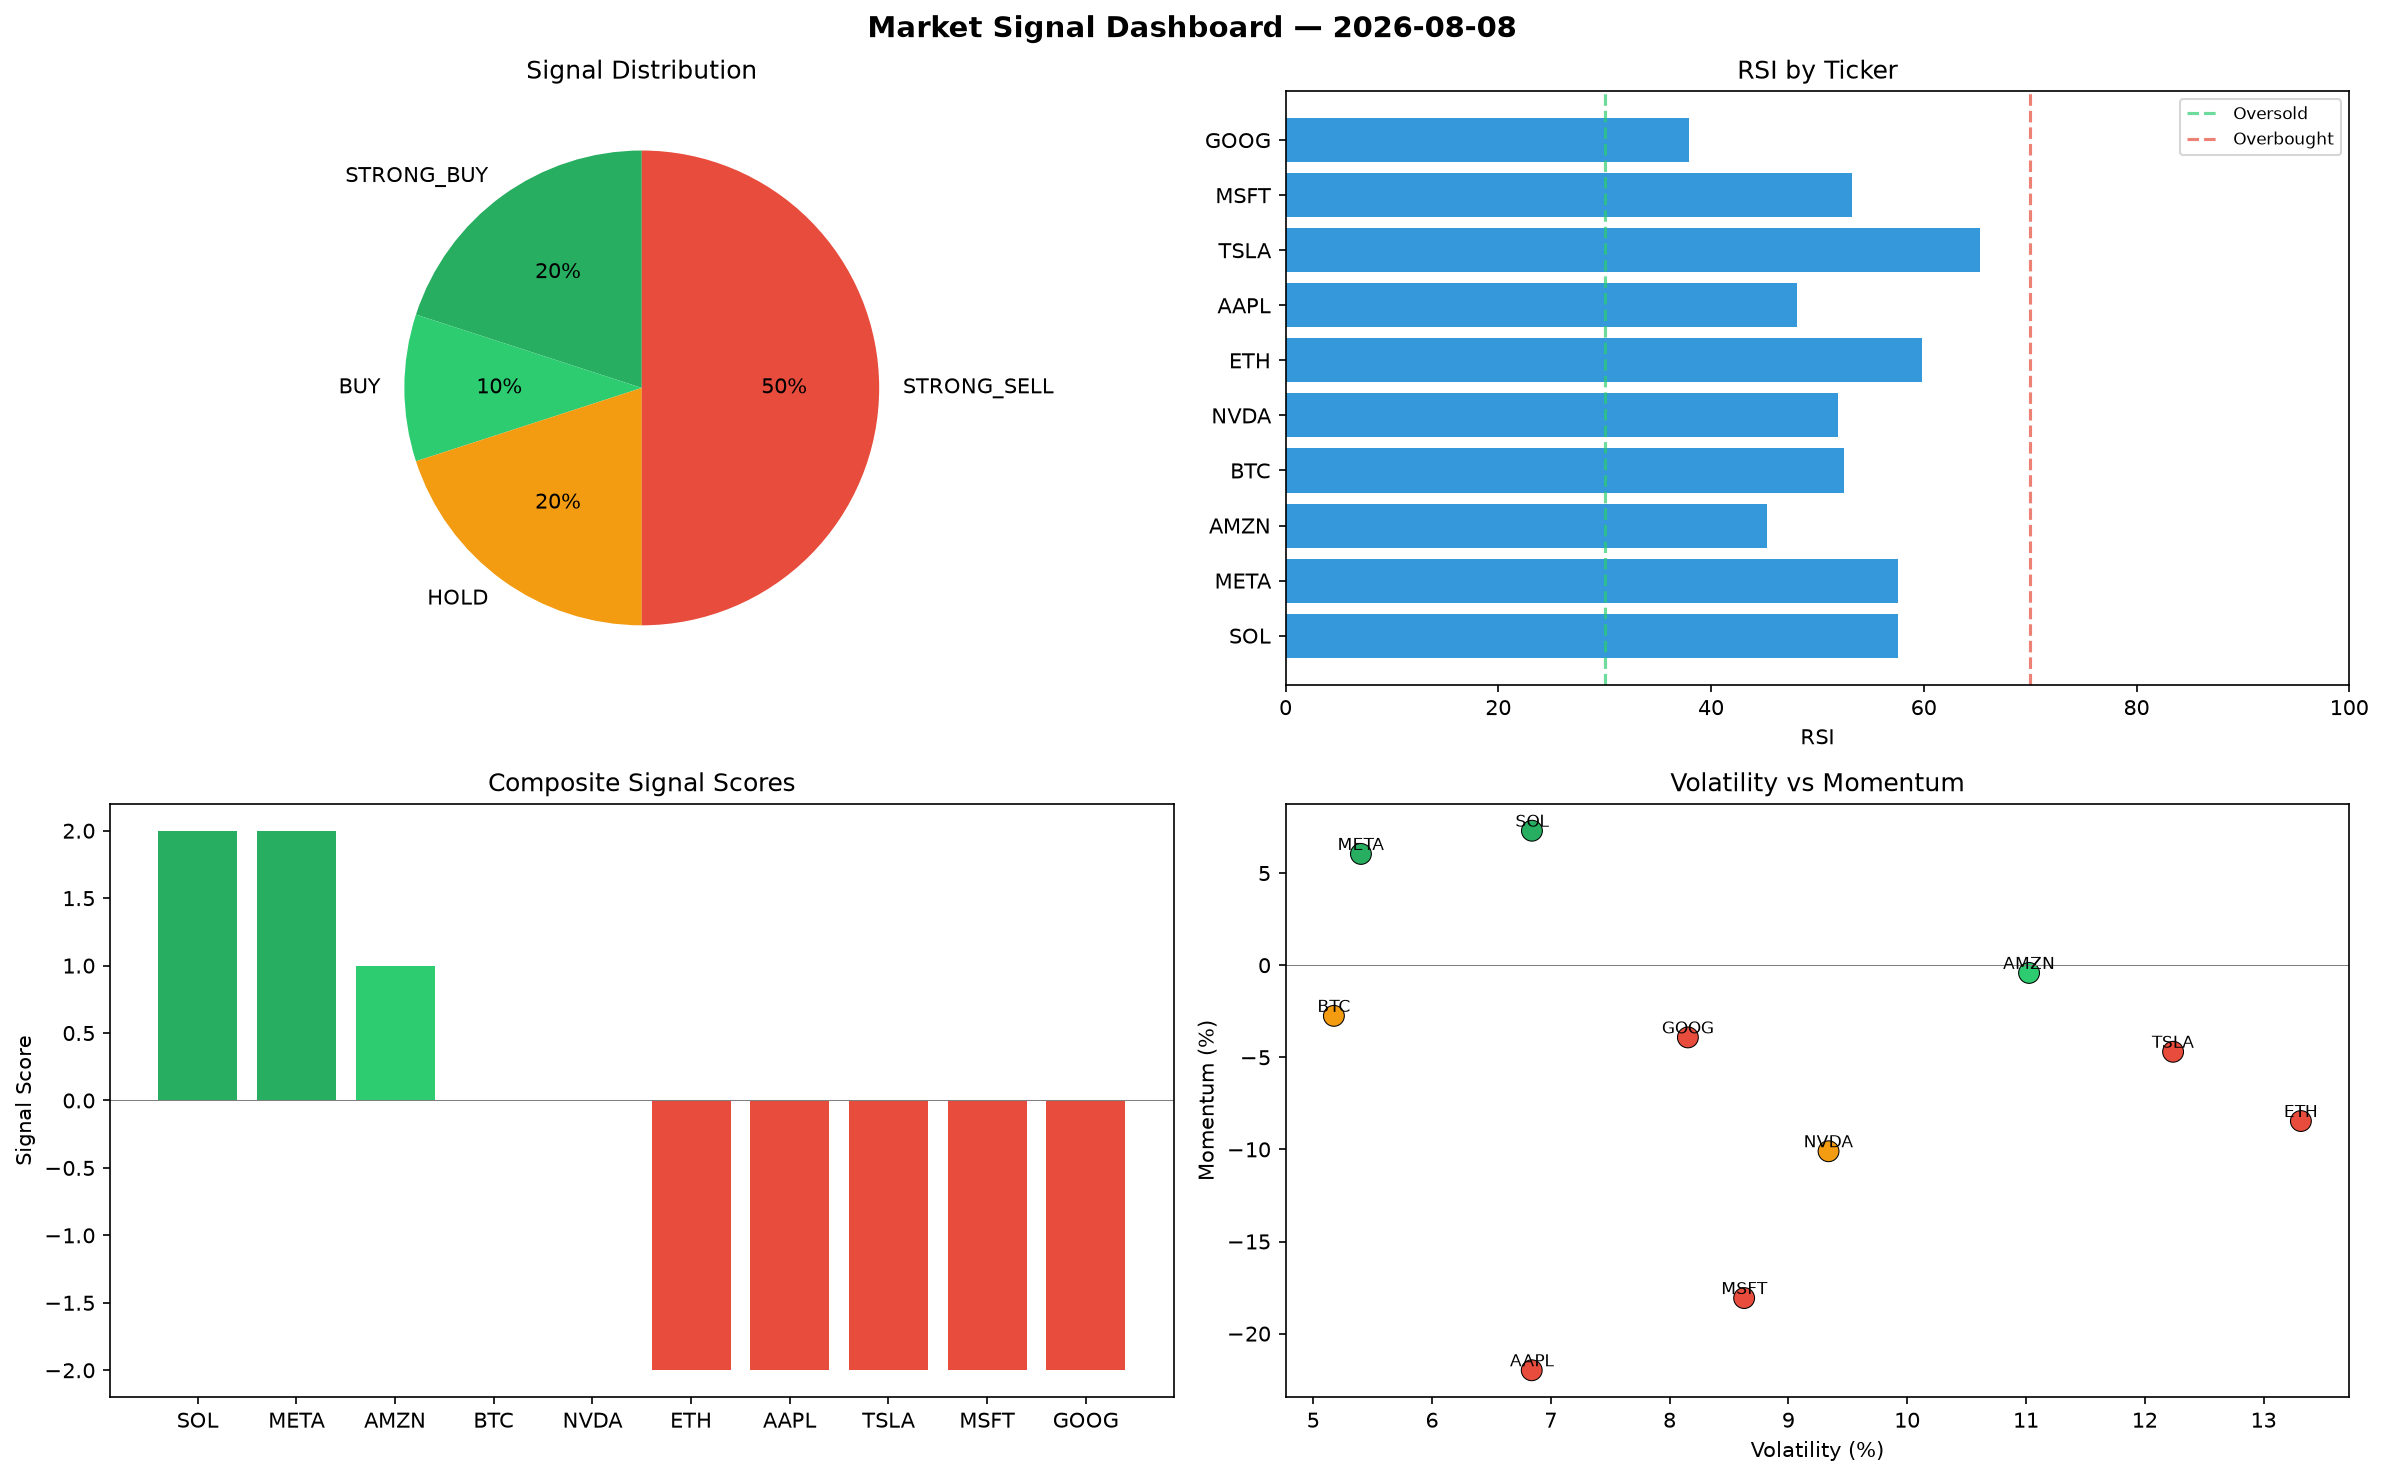
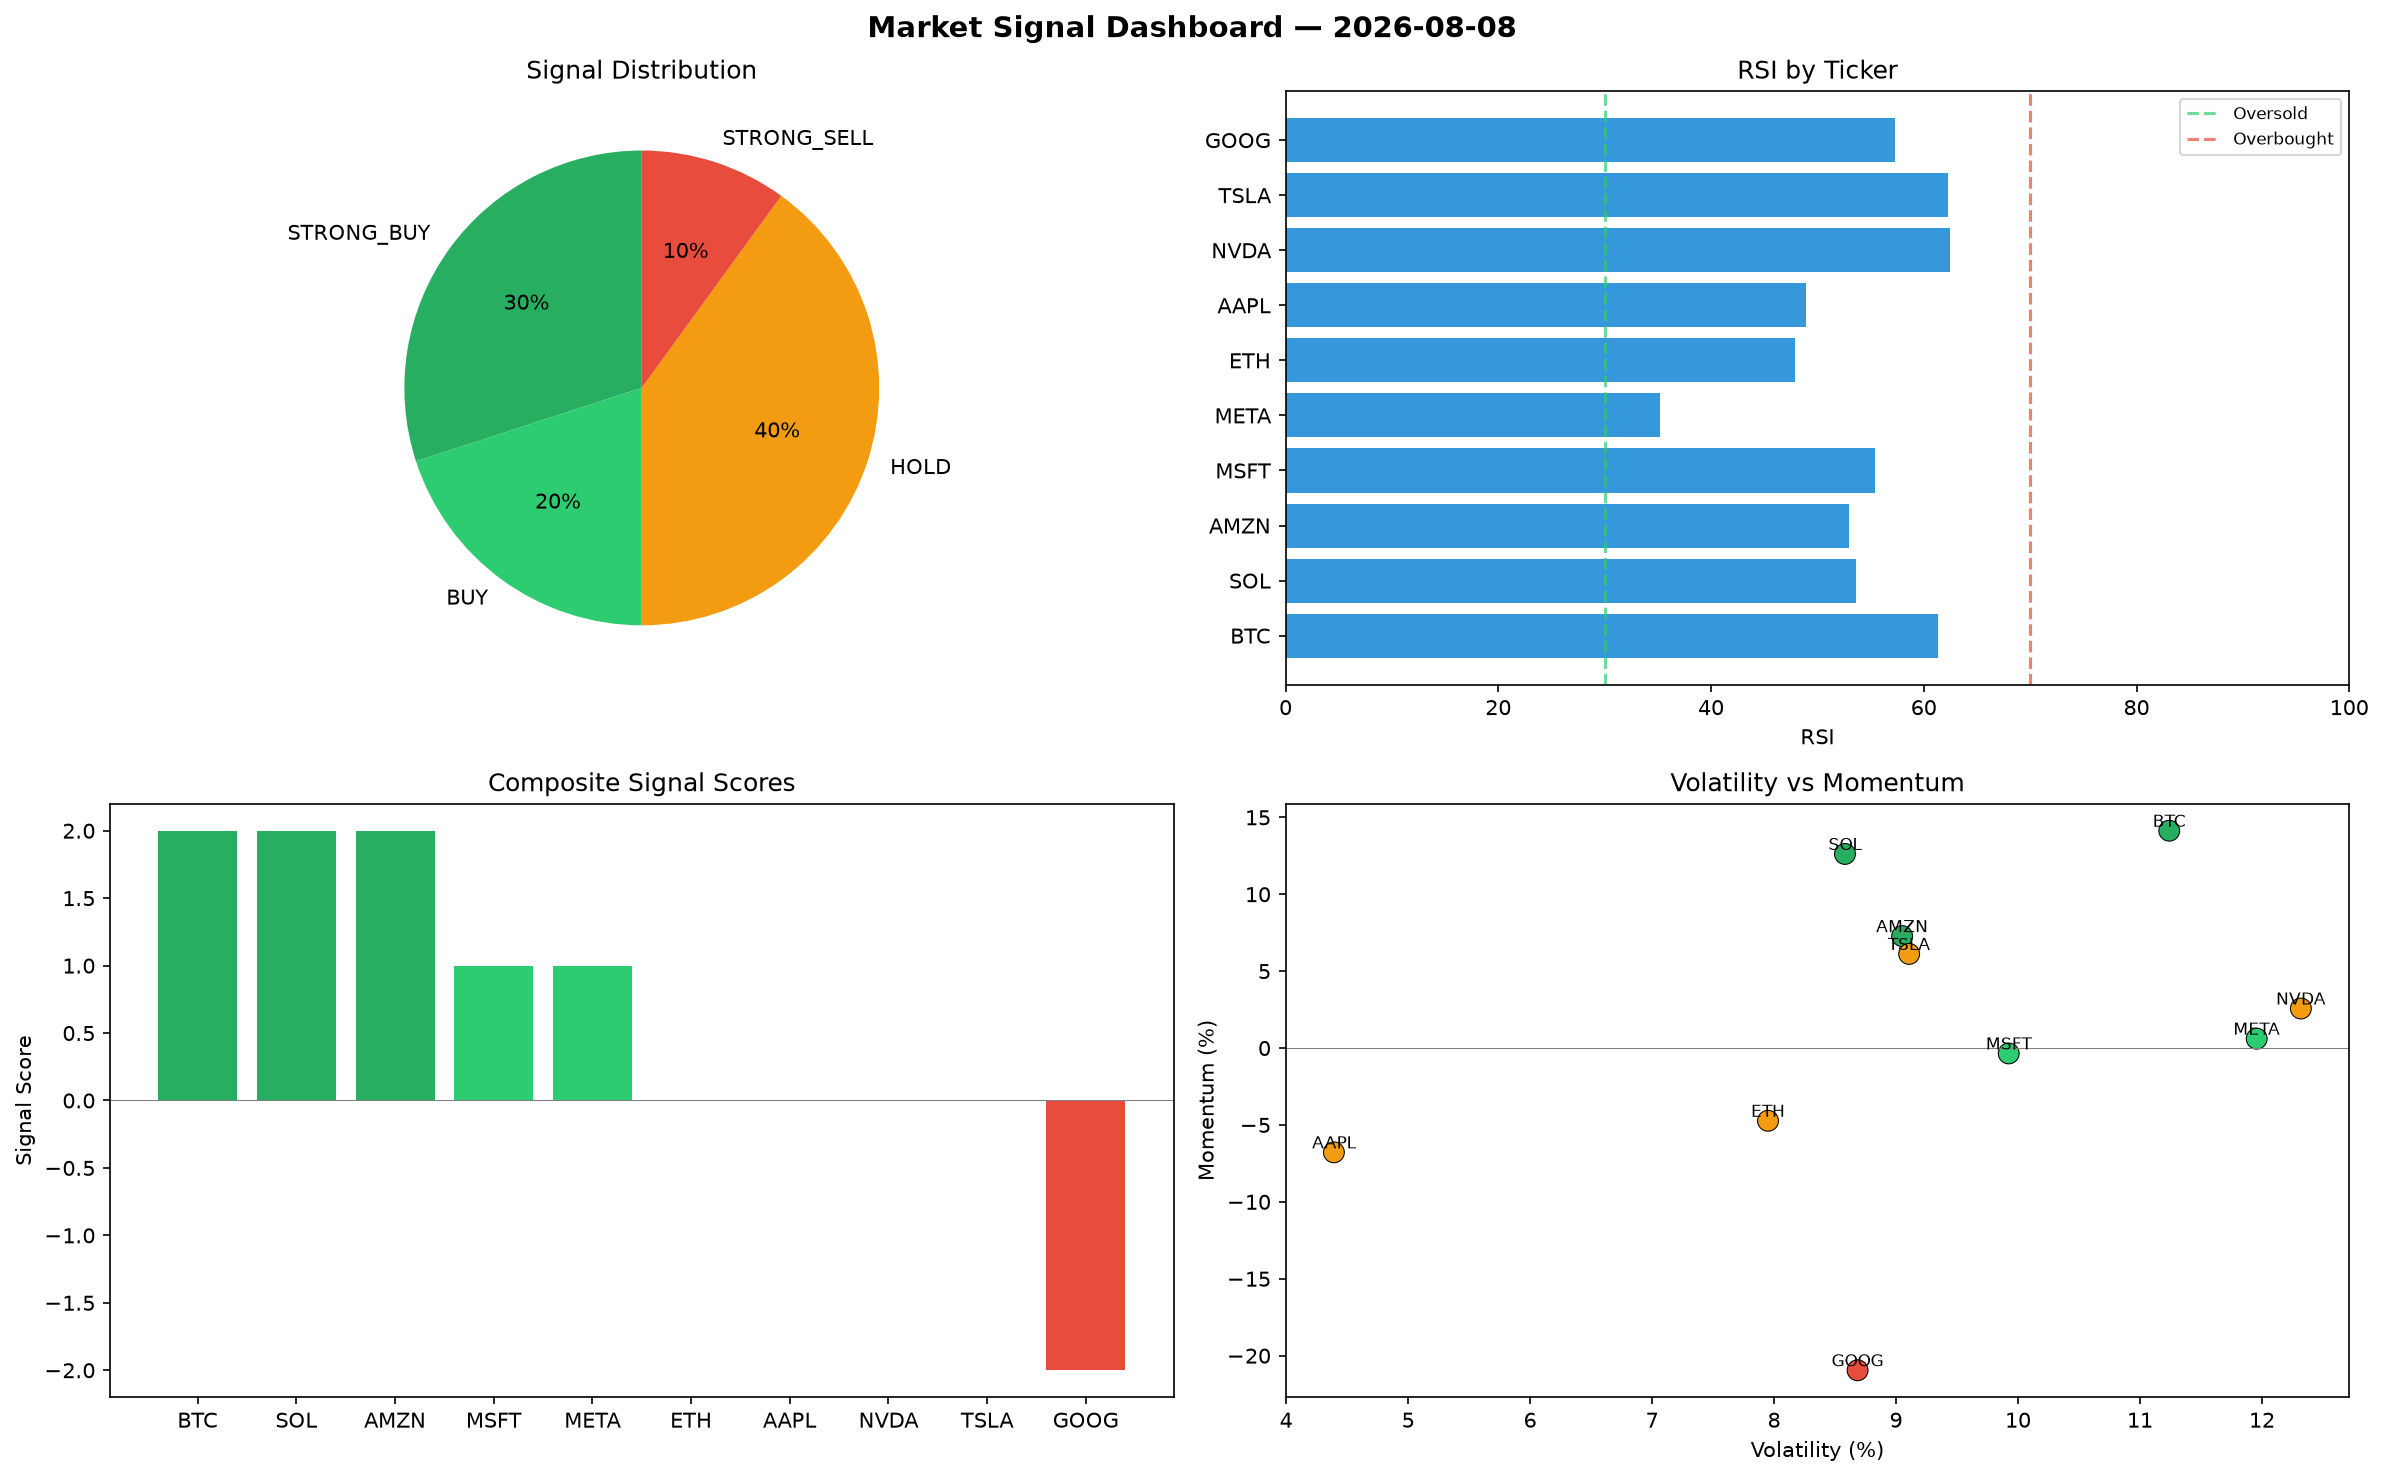
automated-bots: market signals 2026-08-08T20:54

diff --git a/logs/2026-08-08.md b/logs/2026-08-08.md
@@ -1,6 +1,6 @@
 # Market Signal Report — 2026-08-08
 
-**Run ID:** `fbff5f4110` | **Buy:** 3 | **Sell:** 5 | **Hold:** 2
+**Run ID:** `bb3f55c7a4` | **Buy:** 5 | **Sell:** 1 | **Hold:** 4
 
 ![Dashboard](2026-08-08_dashboard.png)
 
@@ -8,28 +8,28 @@
 
 | Ticker | Price | Signal | Score | RSI | Momentum | Confidence |
 |--------|-------|--------|-------|-----|----------|------------|
-| SOL | $1259.66 | **STRONG_BUY** | 2 | 57.58 | 0.073 | 0.5 |
-| META | $670.63 | **STRONG_BUY** | 2 | 57.61 | 0.0604 | 0.5 |
-| AMZN | $1788.34 | **BUY** | 1 | 45.3 | -0.0042 | 0.25 |
-| BTC | $4655.75 | **HOLD** | 0 | 52.47 | -0.0275 | 0.0 |
-| NVDA | $1661.34 | **HOLD** | 0 | 51.91 | -0.101 | 0.0 |
-| ETH | $2161.48 | **STRONG_SELL** | -2 | 59.81 | -0.0846 | 0.5 |
-| AAPL | $1891.41 | **STRONG_SELL** | -2 | 48.05 | -0.2199 | 0.5 |
-| TSLA | $4572.49 | **STRONG_SELL** | -2 | 65.26 | -0.047 | 0.5 |
-| MSFT | $2209.31 | **STRONG_SELL** | -2 | 53.26 | -0.1807 | 0.5 |
-| GOOG | $2069.93 | **STRONG_SELL** | -2 | 37.91 | -0.0392 | 0.5 |
+| BTC | $270.62 | **STRONG_BUY** | 2 | 61.34 | 0.1413 | 0.5 |
+| SOL | $1092.99 | **STRONG_BUY** | 2 | 53.63 | 0.1262 | 0.5 |
+| AMZN | $1813.52 | **STRONG_BUY** | 2 | 52.94 | 0.0728 | 0.5 |
+| MSFT | $665.14 | **BUY** | 1 | 55.43 | -0.0035 | 0.25 |
+| META | $2780.24 | **BUY** | 1 | 35.19 | 0.0061 | 0.25 |
+| ETH | $4356.64 | **HOLD** | 0 | 47.85 | -0.0473 | 0.0 |
+| AAPL | $44.43 | **HOLD** | 0 | 48.97 | -0.0678 | 0.0 |
+| NVDA | $1703.38 | **HOLD** | 0 | 62.47 | 0.0257 | 0.0 |
+| TSLA | $1945.24 | **HOLD** | 0 | 62.27 | 0.0612 | 0.0 |
+| GOOG | $4043.15 | **STRONG_SELL** | -2 | 57.33 | -0.2095 | 0.5 |
 
 ## Delta vs Yesterday
 
 | Ticker | Today | Yesterday | Price Change | Signal Changed |
 |--------|-------|-----------|-------------|----------------|
-| SOL | STRONG_BUY | STRONG_BUY | 📉 -55.23% | — |
-| META | STRONG_BUY | HOLD | 📉 -81.49% | ⚠ YES |
-| AMZN | BUY | SELL | 📉 -11.78% | ⚠ YES |
-| BTC | HOLD | SELL | 📈 10.14% | ⚠ YES |
-| NVDA | HOLD | STRONG_BUY | 📉 -60.89% | ⚠ YES |
-| ETH | STRONG_SELL | STRONG_SELL | 📉 -28.31% | — |
-| AAPL | STRONG_SELL | HOLD | 📈 5.07% | ⚠ YES |
-| TSLA | STRONG_SELL | STRONG_BUY | 📈 3560.63% | ⚠ YES |
-| MSFT | STRONG_SELL | HOLD | 📈 121.19% | ⚠ YES |
-| GOOG | STRONG_SELL | SELL | 📈 751.33% | ⚠ YES |
+| BTC | STRONG_BUY | SELL | 📉 -93.6% | ⚠ YES |
+| SOL | STRONG_BUY | STRONG_BUY | 📉 -61.16% | — |
+| AMZN | STRONG_BUY | SELL | 📉 -10.54% | ⚠ YES |
+| MSFT | BUY | HOLD | 📉 -33.41% | ⚠ YES |
+| META | BUY | HOLD | 📉 -23.27% | ⚠ YES |
+| ETH | HOLD | STRONG_SELL | 📈 44.5% | ⚠ YES |
+| AAPL | HOLD | HOLD | 📉 -97.53% | — |
+| NVDA | HOLD | STRONG_BUY | 📉 -59.9% | ⚠ YES |
+| TSLA | HOLD | STRONG_BUY | 📈 1457.31% | ⚠ YES |
+| GOOG | STRONG_SELL | SELL | 📈 1562.89% | ⚠ YES |
